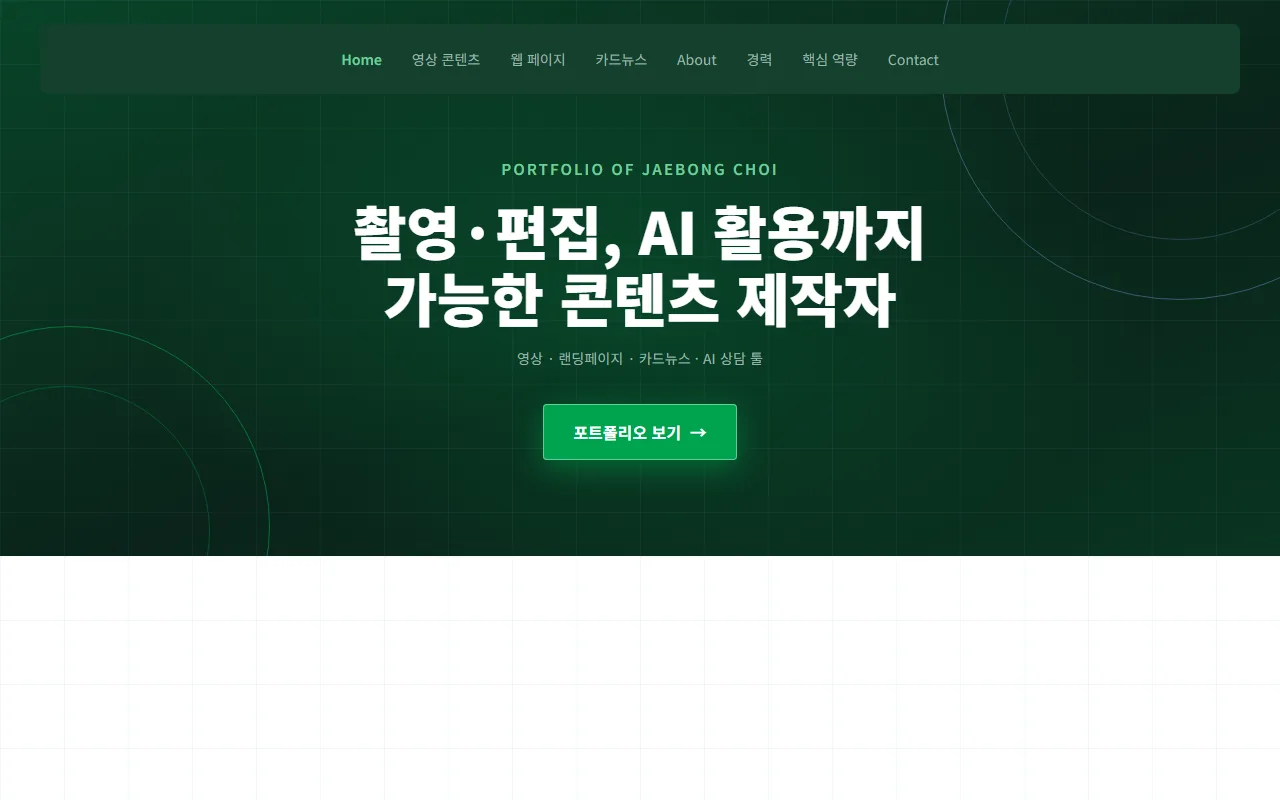
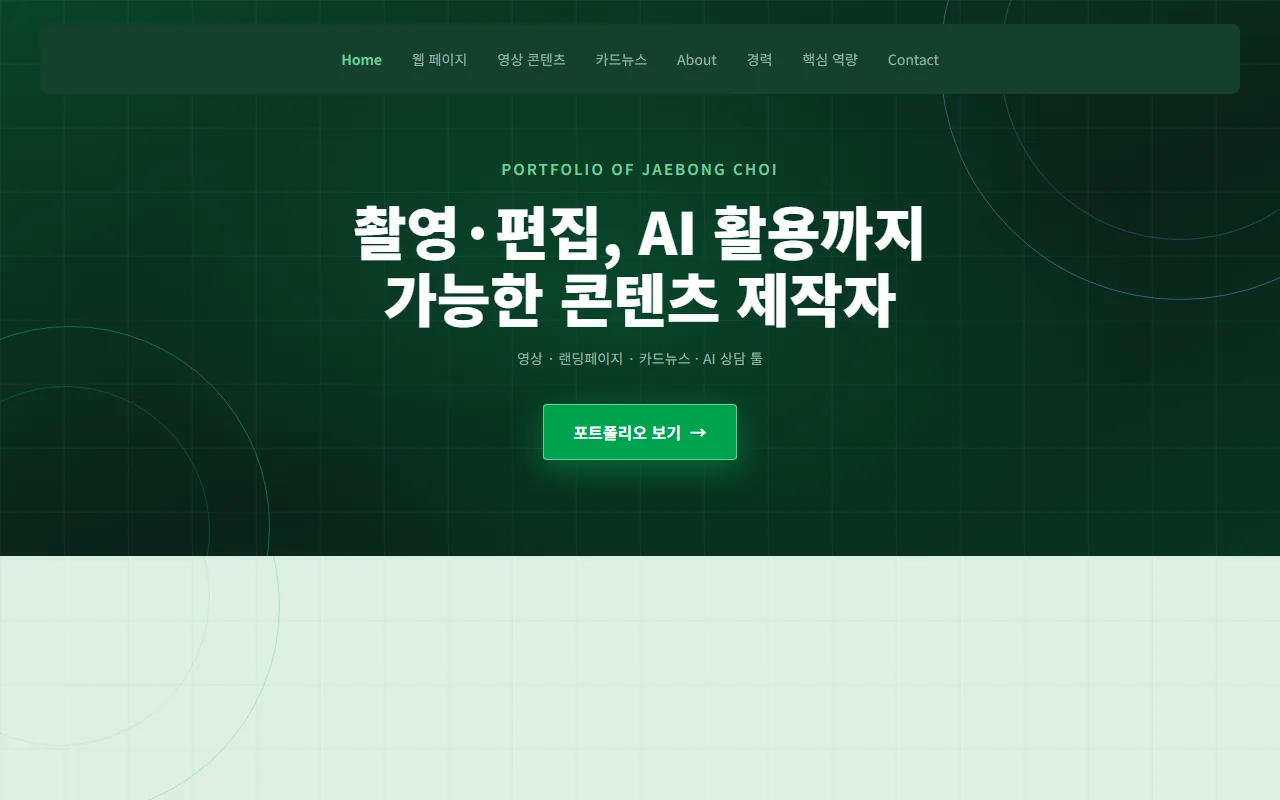
종합 포트폴리오 링크를 /general/ 범용 버전으로 교체 (썸네일 포함)

diff --git a/index.html b/index.html
@@ -332,7 +332,7 @@ footer { border-top: 1px solid var(--line); padding: 30px 0 52px; font-size: 0.8
     </p>
     <div class="links">
       <a class="primary" href="mailto:cjbong23@hanmail.net">이메일</a>
-      <a href="https://jaebong-portfolio.vercel.app/">종합 포트폴리오</a>
+      <a href="https://jaebong-portfolio.vercel.app/general/">종합 포트폴리오</a>
       <a href="https://github.com/jaebong-choi">GitHub</a>
     </div>
   </div>
@@ -456,9 +456,9 @@ footer { border-top: 1px solid var(--line); padding: 30px 0 52px; font-size: 0.8
         <img src="assets/hub.webp" alt="유학 진단 허브" loading="lazy" width="1280" height="800">
         <div class="cap"><b data-url="jaebong-choi.github.io/study-guide-hub">유학 진단 허브</b><small>4개국 진단을 묶은 관문 사이트</small><br><span class="tag">Cowork + Code</span></div>
       </a>
-      <a class="item" href="https://jaebong-portfolio.vercel.app/">
+      <a class="item" href="https://jaebong-portfolio.vercel.app/general/">
         <img src="assets/portfolio.webp" alt="종합 포트폴리오" loading="lazy" width="1280" height="800">
-        <div class="cap"><b data-url="jaebong-portfolio.vercel.app">종합 포트폴리오</b><small>영상·웹·카드뉴스 전체 작업 모음</small><br><span class="tag">Vercel</span></div>
+        <div class="cap"><b data-url="jaebong-portfolio.vercel.app/general">종합 포트폴리오</b><small>영상·웹·카드뉴스 전체 작업 모음</small><br><span class="tag">Vercel</span></div>
       </a>
     </div>
   </div>
